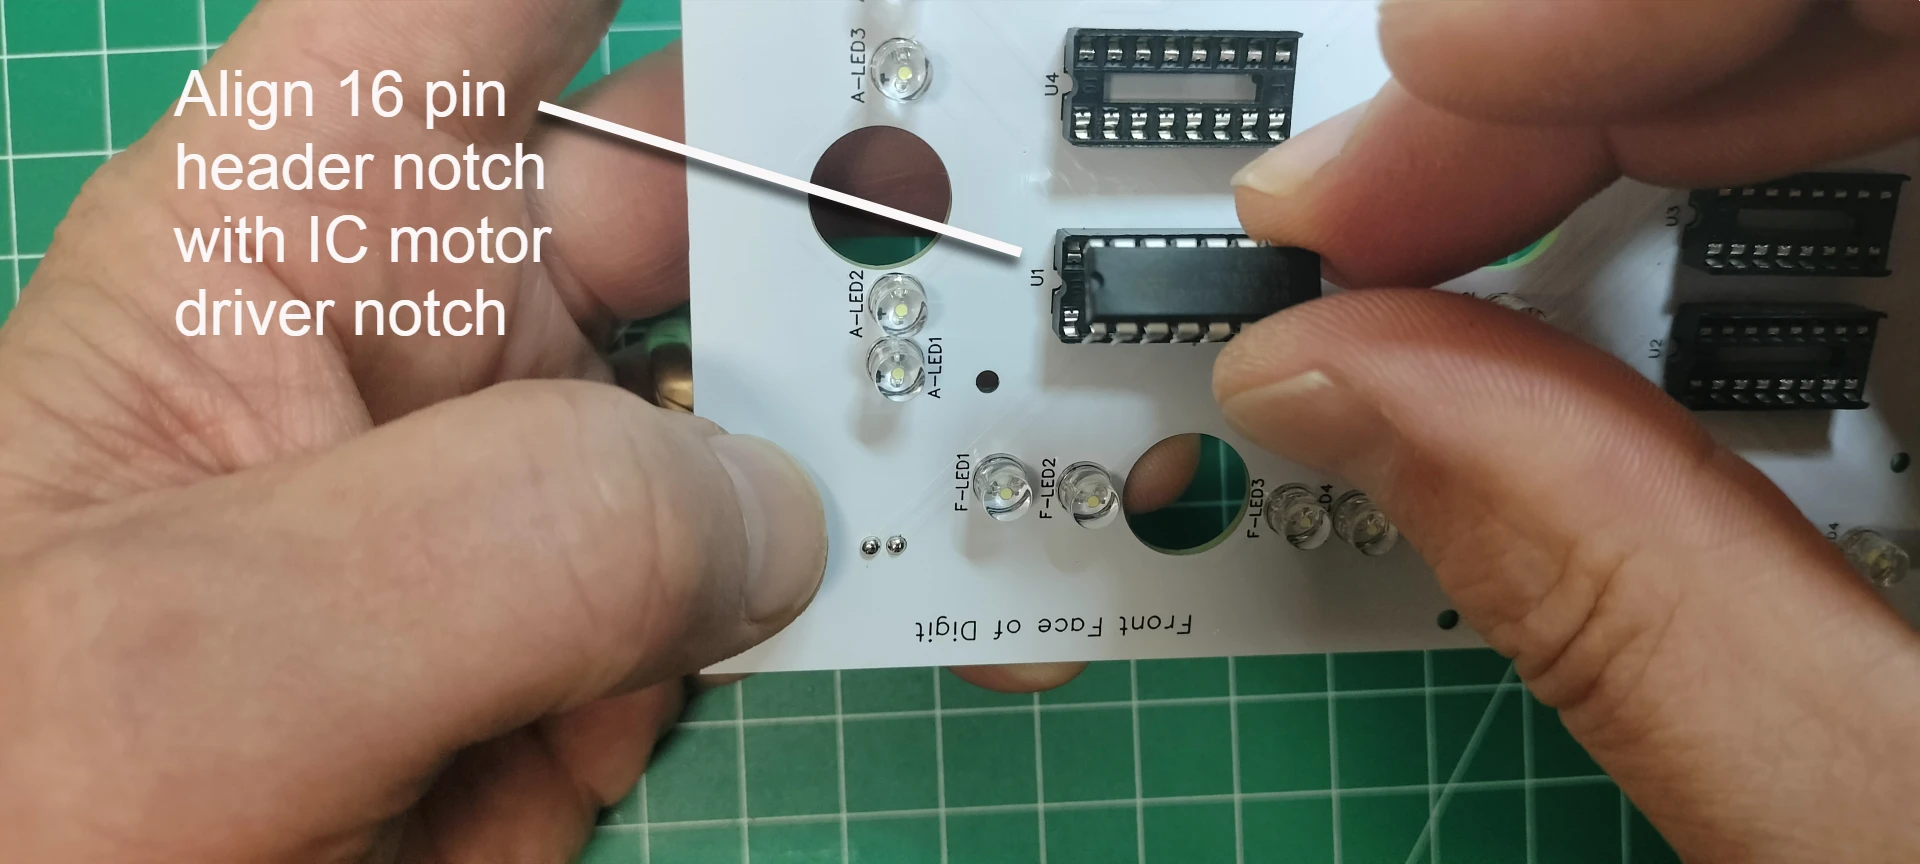
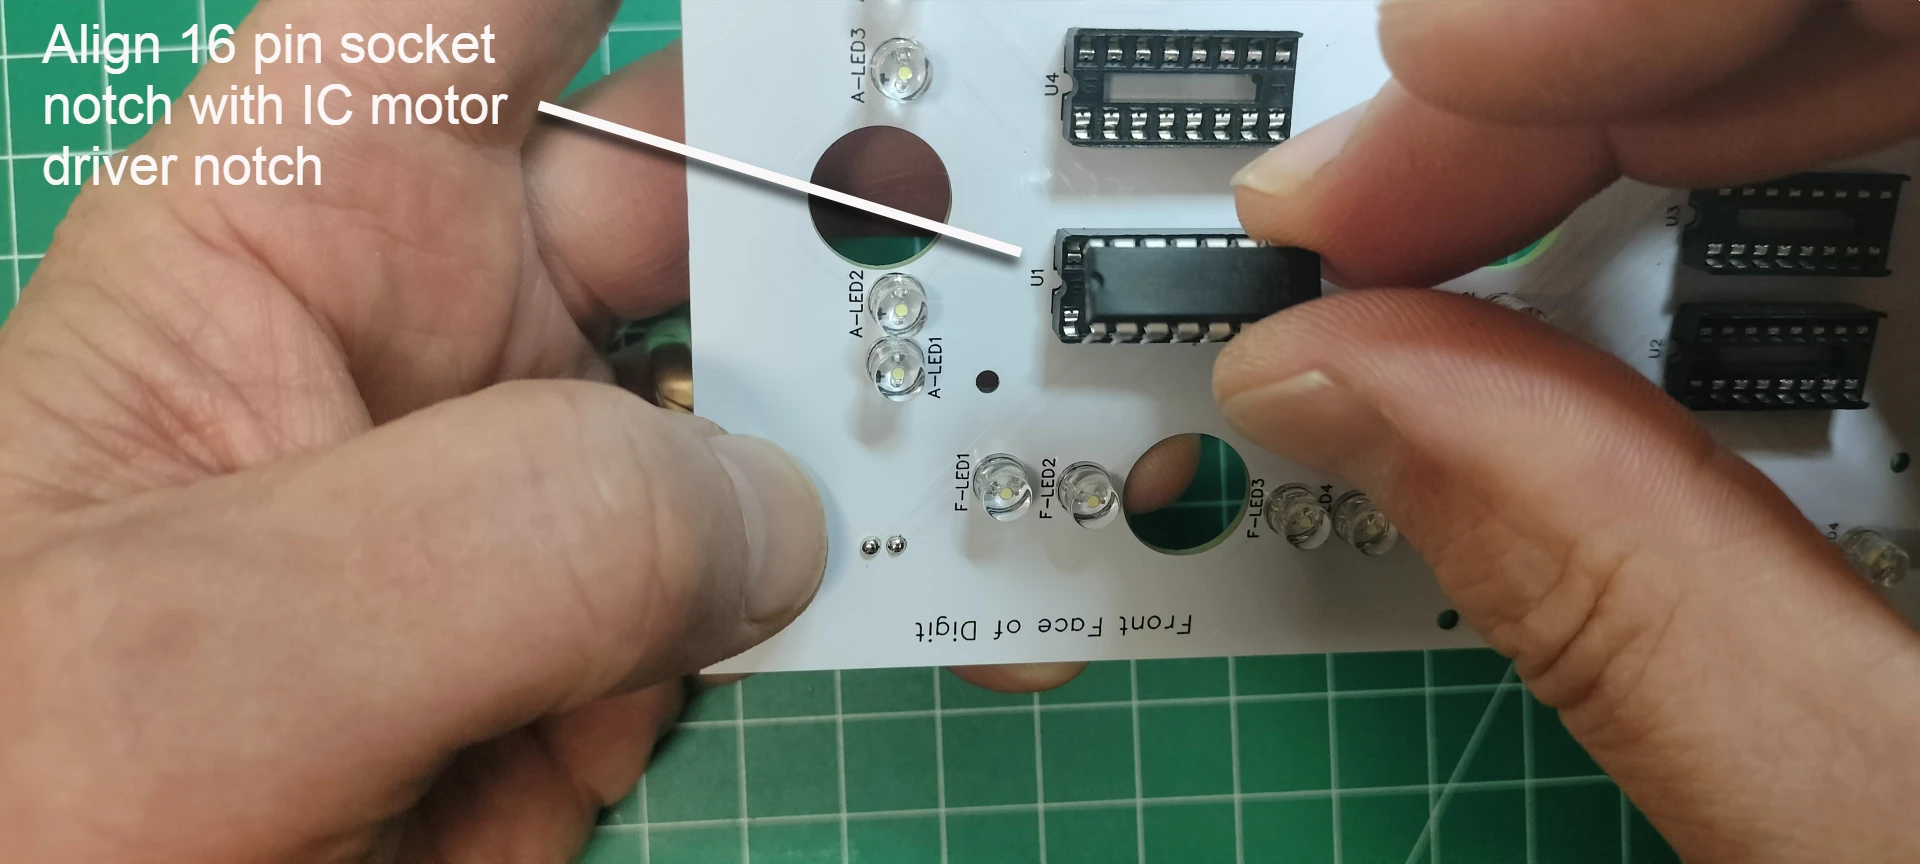
Deployed eade4ae with MkDocs version: 1.6.1

Changed region(s): [[0.0, 0.0312, 0.2812, 0.2188], [0.0938, 0.25, 0.2812, 0.3125], [0.0938, 0.3438, 0.2812, 0.4062]]

diff --git a/assembly/digitpcbassembly/index.html b/assembly/digitpcbassembly/index.html
@@ -142,7 +142,7 @@
               <ul class="nav flex-column">
               </ul>
             </li>
-            <li class="nav-item" data-bs-level="2"><a href="#add-the-pcb-mount-2-port-terminal-block-connectors" class="nav-link">Add the PCB Mount, 2 port Terminal Block Connectors</a>
+            <li class="nav-item" data-bs-level="2"><a href="#add-the-pcb-mount-two-port-2p-terminal-block-connectors" class="nav-link">Add the PCB Mount, Two port (2P) Terminal Block Connectors</a>
               <ul class="nav flex-column">
               </ul>
             </li>
@@ -166,19 +166,100 @@
                     <div class="col-md-9" role="main">
 
 <h1 id="digit-pcb-assembly">Digit PCB Assembly</h1>
-<p>The display has 4 digits. The digits are numbered from right to left, 0-3, when looking at the front of display. The digit PCBs are digits 0, 2, and 3 whereas the controller PCB is digit 1 and includes the colons. This section details the building of digits 0, 2, and 3.</p>
-<p>Components needed for this section.
-<img alt="digitpcb-1" src="../../img/digit-pcb/1-digit-pcb.webp" /></p>
+<p>The display has 4 digits. The digits are numbered from right to left, 0-3, when looking at the front of display. The digit PCBs are digits 0, 2, and 3 whereas the controller PCB is digit 1 and includes the colons. The digit PCBs are the foundation of the display and serve several important functions:</p>
+<ul>
+<li>provides a mechanical backstop to the actuator's segment when retracting into the display</li>
+<li>provides a constent distance for the lighting of the segment, giving the segment a uniform glow rather than spots of light</li>
+<li>provides the traditional role of reducing the wiring, efficiently connects various electronic component minimizing the overall size, reliable, cost-effective, and consistent quality of the circuitry</li>
+</ul>
+<p>This section details the assembly of digits 0, 2, and 3.</p>
+<p>Components needed for this section.</p>
+<table>
+<thead>
+<tr>
+<th style="text-align: center;">Quantity</th>
+<th style="text-align: left;">Component</th>
+<th style="text-align: center;">Image</th>
+</tr>
+</thead>
+<tbody>
+<tr>
+<td style="text-align: center;">4</td>
+<td style="text-align: left;">16 pin IC socket</td>
+<td style="text-align: center;"><img alt="component-1" src="../../img/component/component-1.webp" /></td>
+</tr>
+<tr>
+<td style="text-align: center;">4</td>
+<td style="text-align: left;">L293D stepper motor driver</td>
+<td style="text-align: center;"><img alt="component-2" src="../../img/component/component-2.webp" /></td>
+</tr>
+<tr>
+<td style="text-align: center;">2</td>
+<td style="text-align: left;">20 pin female header connector</td>
+<td style="text-align: center;"><img alt="component-3" src="../../img/component/component-3.webp" /></td>
+</tr>
+<tr>
+<td style="text-align: center;">1</td>
+<td style="text-align: left;">20 pin single row breakaway male connector</td>
+<td style="text-align: center;"><img alt="component-4" src="../../img/component/component-4.webp" /></td>
+</tr>
+<tr>
+<td style="text-align: center;">2</td>
+<td style="text-align: left;">2 Port PCB Mount Screw Terminal Block Connector Straight Pin</td>
+<td style="text-align: center;"><img alt="component-5" src="../../img/component/component-5.webp" /></td>
+</tr>
+<tr>
+<td style="text-align: center;">1</td>
+<td style="text-align: left;">0.1μ farad ceramic capacitor</td>
+<td style="text-align: center;"><img alt="component-6" src="../../img/component/component-6.webp" /></td>
+</tr>
+<tr>
+<td style="text-align: center;">1</td>
+<td style="text-align: left;">1μ farad electrolytic capacitor</td>
+<td style="text-align: center;"><img alt="component-7" src="../../img/component/component-7.webp" /></td>
+</tr>
+<tr>
+<td style="text-align: center;">28</td>
+<td style="text-align: left;">5mm Flat top LED, anode long lead (any color)</td>
+<td style="text-align: center;"><img alt="component-8" src="../../img/component/component-8.webp" /></td>
+</tr>
+<tr>
+<td style="text-align: center;">1</td>
+<td style="text-align: left;">Raspberry Pi Pico</td>
+<td style="text-align: center;"><img alt="component-9" src="../../img/component/component-9.webp" /></td>
+</tr>
+<tr>
+<td style="text-align: center;">1</td>
+<td style="text-align: left;">0.8mm 1.76oz RoHS flux core solder</td>
+<td style="text-align: center;"><img alt="component-10" src="../../img/component/component-10.webp" /></td>
+</tr>
+<tr>
+<td style="text-align: center;">1</td>
+<td style="text-align: left;">Isopropyl Alcohol</td>
+<td style="text-align: center;"><img alt="component-11" src="../../img/component/component-11.webp" /></td>
+</tr>
+<tr>
+<td style="text-align: center;">6</td>
+<td style="text-align: left;">Cotton Facial Pads</td>
+<td style="text-align: center;"><img alt="component-12" src="../../img/component/component-12.webp" /></td>
+</tr>
+<tr>
+<td style="text-align: center;">3</td>
+<td style="text-align: left;">Digit PCBs</td>
+<td style="text-align: center;"></td>
+</tr>
+</tbody>
+</table>
 <h2 id="label-the-front-and-back-sides-of-the-digit-pcb">Label the front and back sides of the digit PCB</h2>
 <ol>
-<li>Using a label maker or piece of tape and pen, create two sets of 3 labels: "0", "2", and "3". Add the label to the FRONT FACING SIDE of each of the 3 digit PCBs as placed in the picture below. Note digit 0 is a completed digit PCB that is ready for the actuators.
+<li>Using a label maker or piece of tape and pen, create two sets of 3 labels: "0", "2", and "3". Add the label to the FRONT FACING SIDE of each of the 3 digit PCBs as placed in the picture below. Also note that digit 0 is a completed digit PCB ready for mounting onto the display.
 <img alt="digitpcb-2" src="../../img/digit-pcb/2-digit-pcb.webp" /></li>
 <li>Add the label to the BACK FACING SIDE of each of the 3 digit PCBs as placed in the picture below.
 <img alt="digitpcb-3" src="../../img/digit-pcb/3-digit-pcb.webp" /></li>
 </ol>
 <h2 id="add-the-16-pin-headers">Add the 16 pin headers</h2>
 <ol>
-<li>From the front facing side of the PCB, insert the 16 pin header into the through holes by aligning the notch with the PCB top silk layer outline of the 16 pins. The notch in the 16-pin header is used to ensure correct orientation when connecting the L293D motor driver. Carefully turn over the PCB while keeping the 16 pin header in the through holes.
+<li>From the front side of the PCB, insert the 16 pin header into the through holes by aligning the notch with the PCB top silk layer outline of the 16 pins. The notch in the 16-pin header is used to ensure correct orientation when connecting the L293D motor driver. Carefully turn over the PCB while keeping the 16 pin header in the through holes.
 <img alt="digitpcb-4" src="../../img/digit-pcb/4-digit-pcb.webp" /></li>
 <li>Solder the 16 pins and repeat the previous step until all 4 of the 16 pin headers are soldered into place.
 <img alt="digitpcb-5" src="../../img/digit-pcb/5-digit-pcb.webp" /></li>
@@ -193,13 +274,13 @@
 <p>BEFORE SOLDERING LEDS ONTO YOUR DIGIT PCB, be sure to test your LEDs on a breadboard and use a digital camera to spot any variations in color when the LEDs are lit. Below is a photo showing the color variation of blue 5mm LEDs within the same batch using a breadboards power rail with 2.63v.
 <img alt="blueLEDs" src="../../img/digit-pcb/ledcolors.webp" /></p>
 <ol>
-<li>There are seven segments "A" through "G" each with four LEDs. From the front-facing side of the PCB, start with segment A by inserting the LED's long lead (anode) into the "+" through hole. Repeat the process for all segment-A LEDs.
+<li>There are seven segments "A" through "G" each with four LEDs. From the front side of the PCB, start with segment A by inserting the LED's long lead (anode) into the "+" through hole. Repeat the process for all segment-A LEDs.
 <img alt="digitpcbLEDs-1" src="../../img/digit-pcb/1-digit-pcb-LED.webp" /></li>
 <li>Carefully turn over the PCB and rest it with the back facing up. Solder each of the LED leads onto the PCB.
 <img alt="digitpcbLEDs-2" src="../../img/digit-pcb/2-digit-pcb-LED.webp" /></li>
 <li>Snip off the excess from the LED leads. Resolder all LEDs into place by repeating the previous step
 <img alt="digitpcbLEDs-3" src="../../img/digit-pcb/3-digit-pcb-LED.webp" /></li>
-<li>Clean the flux off with a cotton pad soaked in isopropyl alcohol.
+<li>Clean the flux off with a cotton pad dabbed in isopropyl alcohol.
 <img alt="digitpcbLEDs-4" src="../../img/digit-pcb/4-digit-pcb-LED.webp" /></li>
 <li>Repeat the previous steps for segments B through G until all 28 LEDs are soldered onto the PCB.
 <img alt="digitpcbLEDs-5" src="../../img/digit-pcb/5-digit-pcb-LED.webp" /></li>
@@ -216,7 +297,7 @@
 <img alt="digitpcbmotorpins-4" src="../../img/digit-pcb/4-digit-pcb-motorpins.webp" /></li>
 <li>Continuing on the front face of the digit, snip the pins to be flush on the pcb. Resolder the snipped pins to create smooth beads.
 <img alt="digitpcbmotorpins-5" src="../../img/digit-pcb/5-digit-pcb-motorpins.webp" /></li>
-<li>Clean off the flux residue using a cotton pad soaked in isopropyl alcohol.
+<li>Clean off the flux residue using a cotton pad dabbed in isopropyl alcohol.
 <img alt="digitpcbmotorpins-6" src="../../img/digit-pcb/6-digit-pcb-motorpins.webp" /></li>
 </ol>
 <h2 id="mount-the-l293d-16-pin-ic-stepper-motor-drivers">Mount the L293D 16-pin IC Stepper Motor Drivers</h2>
@@ -226,9 +307,9 @@
 <li>CAREFULLY insert the motor driver into the 16 pin header and ensure none of the pins on the motor driver are bent or protruding from the 16 pin header.
 <img alt="digitpcbmotordriver2" src="../../img/digit-pcb/2-digit-pcb-motordriver.webp" /></li>
 </ol>
-<h2 id="add-the-pcb-mount-2-port-terminal-block-connectors">Add the PCB Mount, 2 port Terminal Block Connectors</h2>
+<h2 id="add-the-pcb-mount-two-port-2p-terminal-block-connectors">Add the PCB Mount, Two port (2P) Terminal Block Connectors</h2>
 <ol>
-<li>On the front side of the PCB, insert the PCB 2 port terminal block connector into the 5v through holes so the connector is facing toward the LEDs on the PCB.
+<li>On the front side of the PCB, insert the PCB two port terminal block connector into the 5v through holes so the face of the connector where the wires are inserted points toward the LEDs on the PCB.
 <img alt="digitpcbconnector-1" src="../../img/digit-pcb/1-digit-pcb-connector.webp" /></li>
 <li>Solder the block terminal connector pins on the back side of the PCB.
 <img alt="digitpcbconnector-2" src="../../img/digit-pcb/2-digit-pcb-connector.webp" /></li>
@@ -239,9 +320,9 @@
 </ol>
 <h2 id="add-the-ceramic-and-electrolytic-capacitors">Add the Ceramic and Electrolytic Capacitors</h2>
 <ol>
-<li>On the front side of the PCB, align the electrolytic capacitor "-" sign opposite the "+" printed on the PCB for capacitor "c1". Insert the pins into the through holes, then turn the PCB over to the back side and solder the capacitor to the PCB.
+<li>On the front side of the PCB, align the electrolytic capacitor "-" sign opposite the "+" printed on the PCB for capacitor "c1", see the picture below. Insert the pins into the through holes, then turn the PCB over to the back side and solder the capacitor to the PCB.
 <img alt="digitpcbcapacitor-1" src="../../img/digit-pcb/1-digit-pcb-capacitor.webp" /></li>
-<li>On the front side of the PCB, insert the ceramic capacitor pins into the through holes titled "c2". Turn the PCB over to the back side and solder the capacitor to the PCB.
+<li>On the front side of the PCB, insert the ceramic capacitor pins into the through holes titled "c2". Note that ceramic capacitors do not have polarity and can be inserted in any direction. Turn the PCB over to the back side and solder the capacitor to the PCB.
 <img alt="digitpcbcapacitor-2" src="../../img/digit-pcb/2-digit-pcb-capacitor.webp" /></li>
 <li>On the back side of the PCB, snip the pins flush with the PCB, resolder to a smooth bead, then remove the flux with a cotton dabbed with isopropyl alcohol.
 <img alt="digitpcbcapacitor-3" src="../../img/digit-pcb/3-digit-pcb-capacitor.webp" /></li>

diff --git a/index.html b/index.html
@@ -158,6 +158,7 @@
 <li><a href="assembly/digitpcbassembly/">Digit PCB Assembly</a></li>
 <li><a href="assembly/deploydigitproject/">Deploy Digit Projecct</a></li>
 <li><a href="assembly/digitpcbtest/">Test Digit PCB</a></li>
+<li></li>
 </ul></div>
             </div>
         </div>
@@ -240,5 +241,5 @@
 
 <!--
 MkDocs version : 1.6.1
-Build Date UTC : 2025-02-02 06:55:09.101161+00:00
+Build Date UTC : 2025-02-02 22:19:12.541961+00:00
 -->
